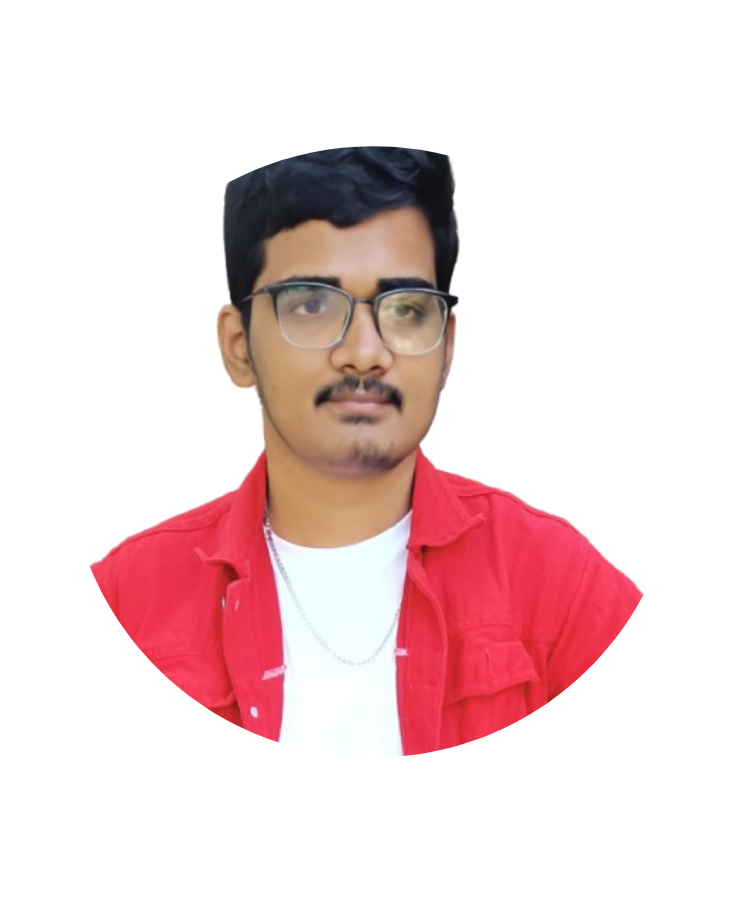
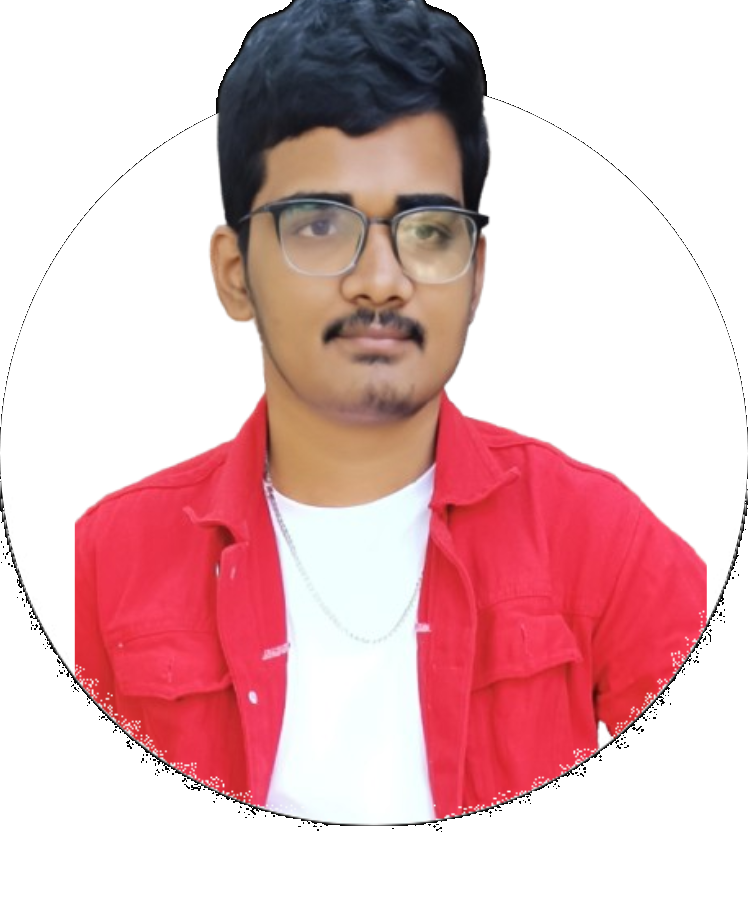
`Updated hero image styles and source in Landingpage component and App.css`

diff --git a/src/App.css b/src/App.css
@@ -293,9 +293,9 @@ section {
 
 .img-hero img {
   position: relative;
-  width: 397px;
-  top: -16px;
-  left: -17px;
+  width: 384px;
+  top: 19px;
+  left: -8px;
   height: auto;
   z-index: 10;
 }
@@ -1059,9 +1059,9 @@ footer {
 @media (max-width: 1440px) {
   .img-hero img {
     position: relative;
-    width: 800px;
-    top: -16px;
-    left: -17px;
+    width: 777px;
+    top: 17px;
+    left: -10px;
     height: auto;
     z-index: 10;
   }
@@ -1073,9 +1073,9 @@ footer {
   }
   .img-hero img {
     position: relative;
-    width: 1000px;
-    top: -16px;
-    left: -17px;
+    width: 981px;
+    top: 17px;
+    left: -13px;
     height: auto;
     z-index: 10;
   }
@@ -1084,41 +1084,40 @@ footer {
 @media (max-width: 1024px) {
   .img-hero img {
     position: relative;
-    width: 1369px;
-    top: -16px;
-    left: -17px;
+    width: 1308px;
+    top: 21px;
+    left: -12px;
     height: auto;
     z-index: 10;
   }
 }
-  @media(min-width: 1800px)and (max-width: 2302px) {
-    .img-hero img {
-      position: relative;
-      width: 528px;
-      top: -16px;
-      left: -17px;
-      height: auto;
-      z-index: 10;
-    }
+@media (min-width: 1800px) and (max-width: 2302px) {
+  .img-hero img {
+    position: relative;
+    width: 494px;
+    top: 20px;
+    left: -9px;
+    height: auto;
+    z-index: 10;
   }
+}
 @media (min-width: 1441px) and (max-width: 1550px) {
   .img-hero img {
     position: relative;
-    width: 800px;
-    top: -32px;
-    left: -26px;
+    width: 683px;
+    top: 22px;
+    left: -8px;
     height: auto;
     z-index: 10;
   }
 }
-
 
 @media (min-width: 1551px) and (max-width: 1800px) {
   .img-hero img {
     position: relative;
-    width: 700px;
-    top: -16px;
-    left: -17px;
+    width: 680px;
+    top: 18px;
+    left: -11px;
     height: auto;
     z-index: 10;
   }
@@ -1133,9 +1132,9 @@ footer {
   }
   .img-hero img {
     position: relative;
-    width: 392px;
-    top: -16px;
-    left: -17px;
+    width: 383px;
+    top: 19px;
+    left: -11px;
     height: auto;
     z-index: 10;
   }
@@ -1220,9 +1219,9 @@ footer {
   }
   .img-hero img {
     position: relative;
-    width: 395px;
-    top: -16px;
-    left: -17px;
+    width: 378px;
+    top: 24px;
+    left: -8px;
     height: auto;
     z-index: 10;
   }

diff --git a/src/components/Landingpage.tsx b/src/components/Landingpage.tsx
@@ -453,7 +453,7 @@ const Landingpage = () => {
           </div>
           <div className="img-hero">
             <img
-              src="img/hero.png"
+              src="img/hero-preview.png"
               alt=""
               // className="relative top-[1px] left-[1px] w-[540px] h-auto z-10"
             />
